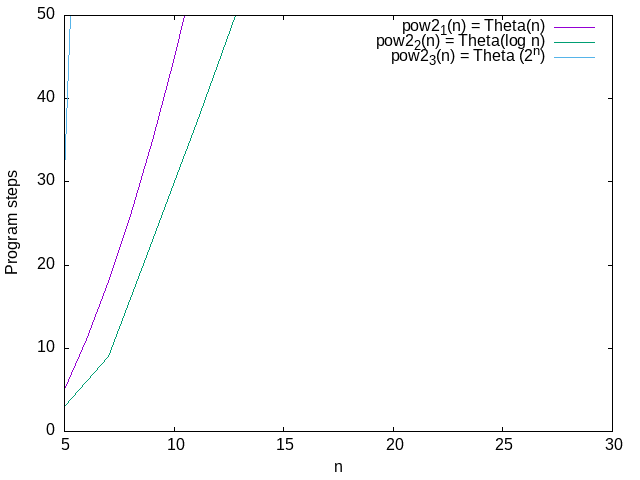
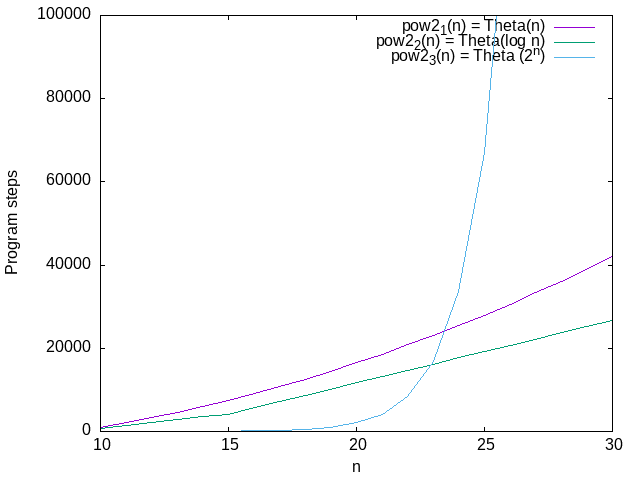
Practica 5 terminado (MANDAR)

diff --git a/prac5/pow2.cc b/prac5/pow2.cc
@@ -53,14 +53,14 @@ unsigned long pow2_3(unsigned n){
 
 int main (){
 
-	for (unsigned exp = 5; exp <= 30; exp++) {
+	for (unsigned exp = 10; exp <= 30; exp++) {
 		
         pow2_1(exp);
-        cout << exp << "\t" << STEPS1 << "\t";
+        cout << exp << "\t" << STEPS1*100 << "\t";
         pow2_2(exp);
-        cout << STEPS2 << "\t";
+        cout << STEPS2*100 << "\t";
         pow2_3(exp);
-        cout << STEPS3 << endl;
+        cout << STEPS3/1000 << endl;
     }
 
 	return 0;
